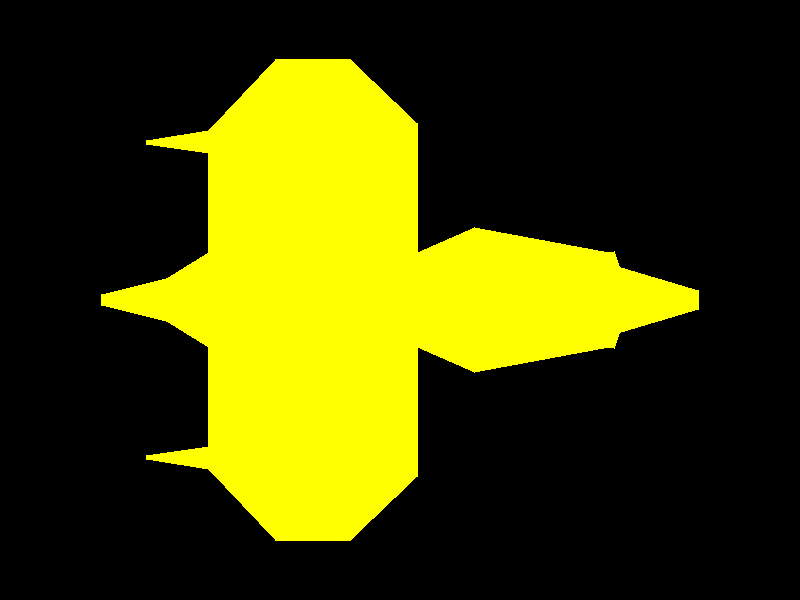
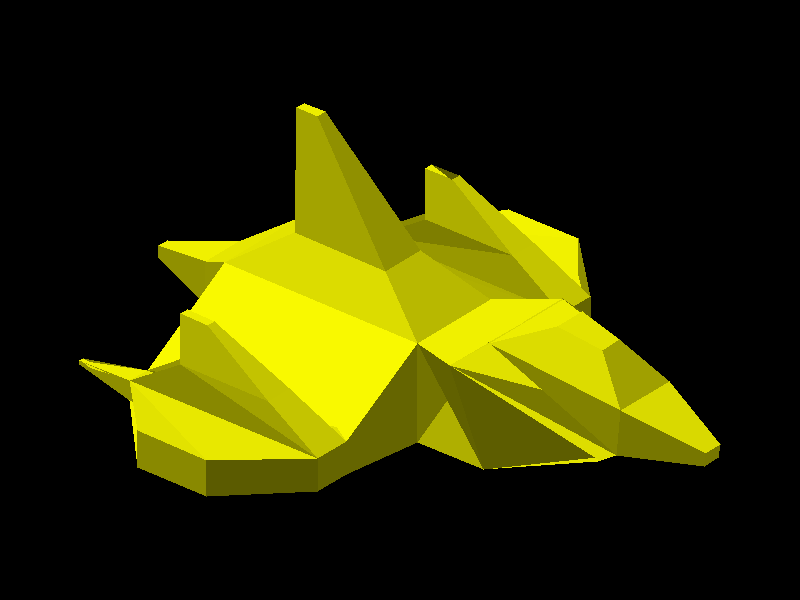
Vista en diagonal con sombreado plano y orden por profundidad

diff --git a/src/main.cpp b/src/main.cpp
@@ -1,5 +1,6 @@
 #include <SDL.h>
 #include <algorithm>
+#include <cmath>
 #include <cstdio>
 #include <cstring>
 #include <vector>
@@ -14,35 +15,70 @@ const int SCREEN_HEIGHT = 600;
 std::vector<Vec3> vertices;
 std::vector<Face> faces;
 
-// Transformacion modelo -> pantalla (vista superior, plano X-Z).
-float centerX, centerZ, scale;
+// Angulos de la camara en grados: giro alrededor del eje vertical (Y) y
+// inclinacion hacia abajo (eje X). Juntos dan una vista en diagonal.
+const float YAW_DEG = -40.0f;
+const float PITCH_DEG = 30.0f;
 
-// Calcula el centro de la caja envolvente y una escala uniforme para que
-// el modelo ocupe el 80% del lado mas restrictivo de la pantalla.
-void computeTransform() {
-    float minX = vertices[0].x, maxX = vertices[0].x;
-    float minZ = vertices[0].z, maxZ = vertices[0].z;
-    for (const Vec3& v : vertices) {
-        minX = std::min(minX, v.x); maxX = std::max(maxX, v.x);
-        minZ = std::min(minZ, v.z); maxZ = std::max(maxZ, v.z);
-    }
-    centerX = (minX + maxX) / 2.0f;
-    centerZ = (minZ + maxZ) / 2.0f;
-    scale = 0.8f * std::min(SCREEN_WIDTH / (maxX - minX), SCREEN_HEIGHT / (maxZ - minZ));
+// Vertices ya rotados: x hacia la derecha, y hacia arriba, z hacia la camara.
+std::vector<Vec3> rotated;
+
+// Transformacion modelo -> pantalla.
+float centerX, centerY, scale;
+
+Vec3 rotate(const Vec3& v) {
+    const float yaw = YAW_DEG * 3.14159265f / 180.0f;
+    const float pitch = PITCH_DEG * 3.14159265f / 180.0f;
+
+    // Giro alrededor de Y.
+    float x1 = v.x * std::cos(yaw) + v.z * std::sin(yaw);
+    float z1 = -v.x * std::sin(yaw) + v.z * std::cos(yaw);
+
+    // Inclinacion alrededor de X: la camara mira el modelo desde arriba.
+    float y2 = v.y * std::cos(pitch) - z1 * std::sin(pitch);
+    float z2 = v.y * std::sin(pitch) + z1 * std::cos(pitch);
+    return Vec3{x1, y2, z2};
 }
 
-// Proyeccion ortografica vista desde arriba: se descarta Y (altura).
-// Blender exporta con Y hacia arriba y -Z hacia adelante, asi que en la
-// vista superior Z crece hacia abajo de la pantalla, igual que y_pantalla.
+// Rota todos los vertices y calcula el centro de la caja envolvente y una
+// escala uniforme para que el modelo ocupe el 80% del lado mas restrictivo.
+void computeTransform() {
+    rotated.clear();
+    for (const Vec3& v : vertices) rotated.push_back(rotate(v));
+
+    float minX = rotated[0].x, maxX = rotated[0].x;
+    float minY = rotated[0].y, maxY = rotated[0].y;
+    for (const Vec3& v : rotated) {
+        minX = std::min(minX, v.x); maxX = std::max(maxX, v.x);
+        minY = std::min(minY, v.y); maxY = std::max(maxY, v.y);
+    }
+    centerX = (minX + maxX) / 2.0f;
+    centerY = (minY + maxY) / 2.0f;
+    scale = 0.8f * std::min(SCREEN_WIDTH / (maxX - minX), SCREEN_HEIGHT / (maxY - minY));
+}
+
+// Proyeccion ortografica de un vertice rotado: se descarta z. En pantalla
+// la y crece hacia abajo, por eso se invierte.
 Point toScreen(const Vec3& v) {
     int x = (int)(SCREEN_WIDTH / 2.0f + (v.x - centerX) * scale);
-    int y = (int)(SCREEN_HEIGHT / 2.0f + (v.z - centerZ) * scale);
+    int y = (int)(SCREEN_HEIGHT / 2.0f - (v.y - centerY) * scale);
     return Point{x, y};
 }
 
+struct Tri {
+    int i0, i1, i2;
+    float depth;      // z promedio; mayor z = mas cerca de la camara
+    float intensity;  // brillo segun la orientacion de la cara
+};
+
 // Recorre todas las caras y dibuja sus triangulos. Devuelve cuantos dibujo.
-int render(Framebuffer& fb) {
-    int drawn = 0;
+int render(Framebuffer& fb, Color baseColor) {
+    // Luz que viene desde arriba, la izquierda y la camara.
+    Vec3 light{-0.4f, 0.7f, 0.6f};
+    float len = std::sqrt(light.x * light.x + light.y * light.y + light.z * light.z);
+    light = Vec3{light.x / len, light.y / len, light.z / len};
+
+    std::vector<Tri> tris;
     for (const Face& face : faces) {
         const std::vector<int>& idx = face.vertexIndices;
 
@@ -58,15 +94,32 @@ int render(Framebuffer& fb) {
                 continue;
             }
 
-            const Vec3& v0 = vertices[i0];
-            const Vec3& v1 = vertices[i1];
-            const Vec3& v2 = vertices[i2];
+            const Vec3& v0 = rotated[i0];
+            const Vec3& v1 = rotated[i1];
+            const Vec3& v2 = rotated[i2];
 
-            triangle(fb, toScreen(v0), toScreen(v1), toScreen(v2));
-            ++drawn;
+            // Normal de la cara = (v1 - v0) x (v2 - v0).
+            Vec3 a{v1.x - v0.x, v1.y - v0.y, v1.z - v0.z};
+            Vec3 b{v2.x - v0.x, v2.y - v0.y, v2.z - v0.z};
+            Vec3 n{a.y * b.z - a.z * b.y, a.z * b.x - a.x * b.z, a.x * b.y - a.y * b.x};
+            float nlen = std::sqrt(n.x * n.x + n.y * n.y + n.z * n.z);
+            float d = nlen > 0 ? std::fabs(n.x * light.x + n.y * light.y + n.z * light.z) / nlen : 0;
+
+            tris.push_back(Tri{i0, i1, i2, (v0.z + v1.z + v2.z) / 3.0f, 0.25f + 0.75f * d});
         }
     }
-    return drawn;
+
+    // Algoritmo del pintor: primero los triangulos mas lejanos, para que
+    // los cercanos queden encima.
+    std::sort(tris.begin(), tris.end(), [](const Tri& p, const Tri& q) { return p.depth < q.depth; });
+
+    for (const Tri& t : tris) {
+        fb.setColor(Color{(uint8_t)(baseColor.r * t.intensity),
+                          (uint8_t)(baseColor.g * t.intensity),
+                          (uint8_t)(baseColor.b * t.intensity)});
+        triangle(fb, toScreen(rotated[t.i0]), toScreen(rotated[t.i1]), toScreen(rotated[t.i2]));
+    }
+    return (int)tris.size();
 }
 
 int main(int argc, char* argv[]) {
@@ -118,8 +171,7 @@ int main(int argc, char* argv[]) {
         }
 
         fb.clear();
-        fb.setColor(Color{255, 255, 0});
-        int drawn = render(fb);
+        int drawn = render(fb, Color{255, 255, 0});
         fb.renderBuffer(renderer, texture);
 
         if (firstFrame) {

diff --git a/README.md b/README.md
@@ -14,9 +14,13 @@ propia para rellenar triángulos.
    los índices de sus vértices y con ellos obtiene los tres vértices de cada
    triángulo. Las caras de 4 vértices se dividen en dos triángulos
    (`0,1,2` y `0,2,3`).
-3. Cada vértice se transforma a coordenadas de pantalla (vista superior,
-   centrado y escalado para ocupar el 80% de la ventana).
-4. `triangle` ([src/triangle.cpp](src/triangle.cpp)) rellena el triángulo en el
+3. Cada vértice se rota (40° alrededor del eje vertical y 30° de inclinación)
+   para ver la nave en diagonal, y luego se proyecta de forma ortográfica a la
+   pantalla, centrado y escalado para ocupar el 80% de la ventana.
+4. Cada triángulo se sombrea según el ángulo entre su normal y una luz, y se
+   dibujan del más lejano al más cercano (algoritmo del pintor) para que las
+   caras de enfrente queden encima.
+5. `triangle` ([src/triangle.cpp](src/triangle.cpp)) rellena el triángulo en el
    framebuffer usando funciones de arista sobre su caja envolvente.
 
 El modelo tiene 136 vértices y 132 caras, que resultan en 264 triángulos.
